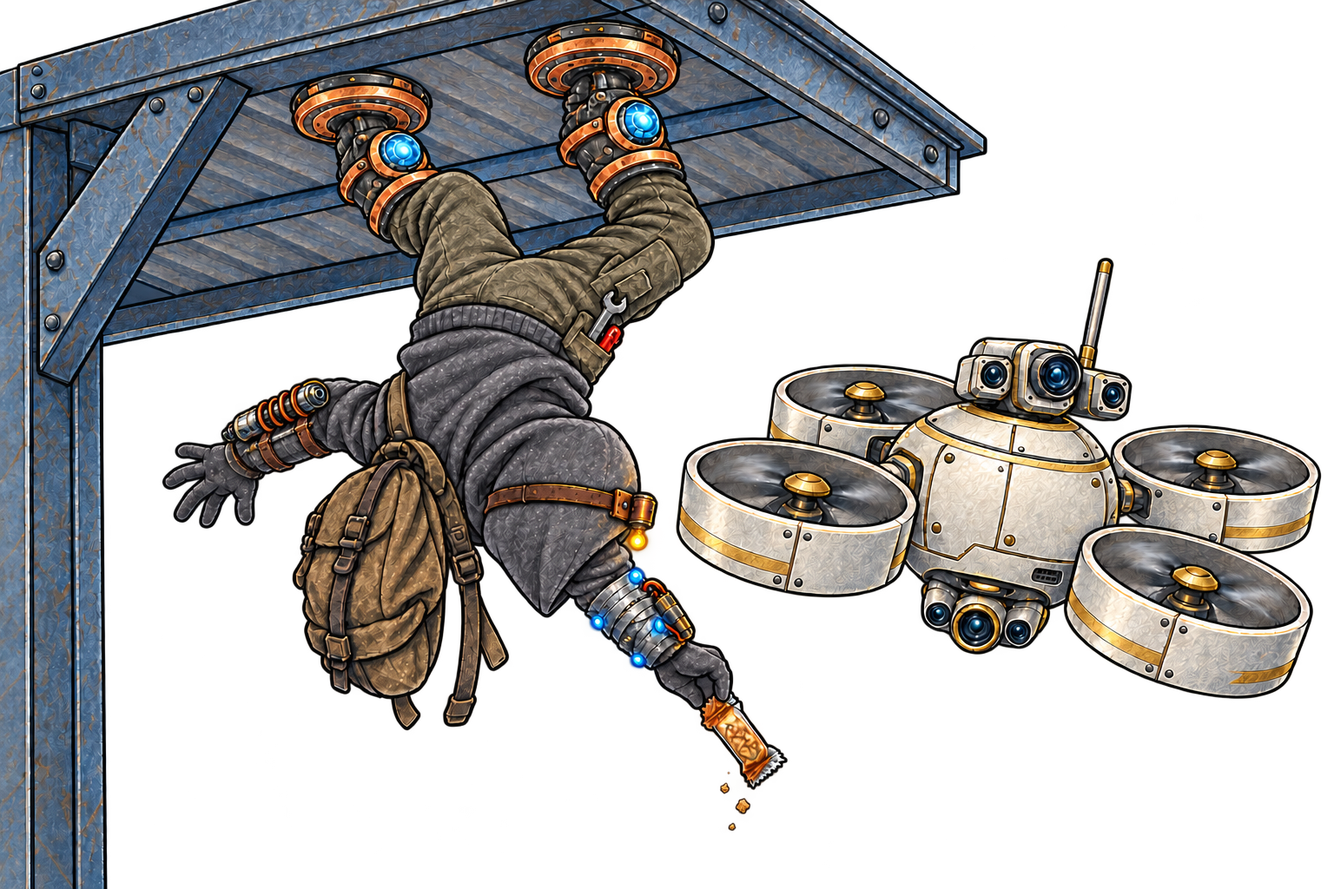
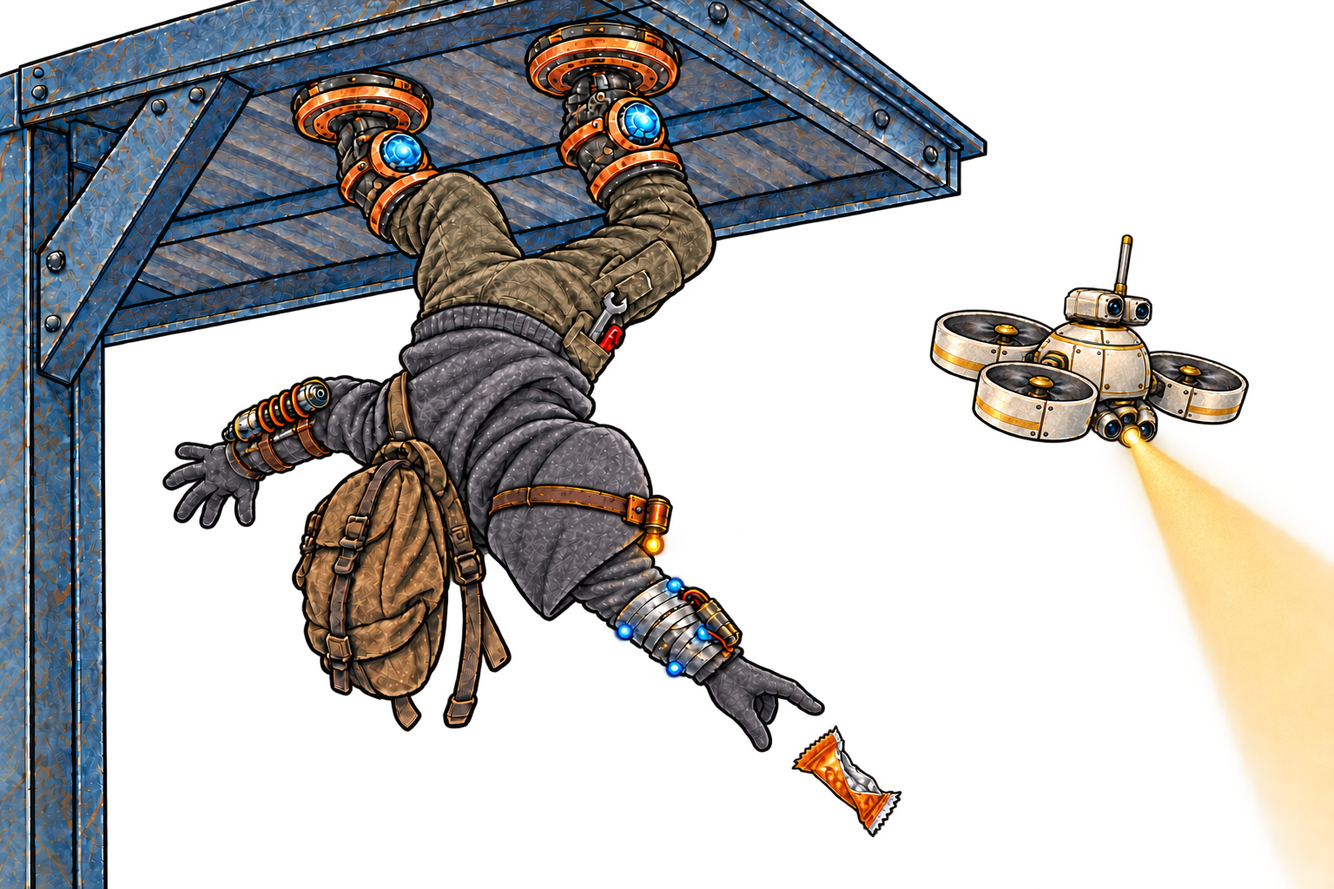
Use approved drone search-beam illustration in story

diff --git a/artwork/tech-hero/2026-09-23/index.html b/artwork/tech-hero/2026-09-23/index.html
@@ -1,5 +1,5 @@
 <!doctype html><html lang="en"><head><meta charset="utf-8"><meta name="viewport" content="width=device-width,initial-scale=1"><title>Tech Hero artwork · Paths of Wonder</title><style>
 *{box-sizing:border-box}html{background:#e5dac4;color:#242a30}body{margin:0;font:17px/1.55 system-ui,-apple-system,sans-serif}header,main,.end{max-width:1480px;margin:auto;padding:32px clamp(16px,4vw,56px)}header{padding-bottom:12px}h1,h2{font-family:Georgia,serif;line-height:1.15;font-weight:500}h1{font-size:clamp(32px,5vw,54px);margin:8px 0 20px}h2{font-size:28px;margin:8px 0}.intro{max-width:830px}.eyebrow,.label span{font-size:13px;letter-spacing:.06em;text-transform:uppercase;color:#635334}a{color:#314e46;text-underline-offset:4px}nav,.controls{display:flex;flex-wrap:wrap;gap:8px;margin:20px 0}nav a,button,footer a{min-height:44px;display:inline-flex;align-items:center;padding:9px 13px;border-radius:8px}nav a,button{border:1px solid #b6a88d;text-decoration:none;background:#f5efdf;font:inherit;color:inherit;cursor:pointer}button[aria-pressed=true]{background:#314e46;color:#fff}a:focus-visible,button:focus-visible{outline:3px solid #96612b;outline-offset:3px}main{display:grid;grid-template-columns:repeat(2,minmax(0,1fr));gap:24px;padding-top:12px}article{background:#f4eddb;border:1px solid #c6b99d;border-radius:10px;overflow:hidden;scroll-margin-top:16px}.label{padding:20px 24px 4px}.label p{font-size:14px;color:#655c48;margin:8px 0}.page{background:#f4eddb;padding:8px 16px}.art{display:block}img{display:block;width:100%;height:auto;max-height:620px;object-fit:contain}.context{display:none;font:20px/1.65 Georgia,serif;padding:8px 18px;white-space:pre-line}.reading .context{display:block}.reading .spot .art{max-width:430px;margin:auto}.large .context{font-size:25px}footer{display:flex;justify-content:space-between;flex-wrap:wrap;padding:8px 12px 14px}.end{color:#635334} @media(max-width:700px){main{grid-template-columns:1fr}.label{padding:18px 18px 4px}.page{padding:8px}.context{padding:8px 14px}img{max-height:none}}@media print{nav,.controls,footer{display:none}main{display:block}article{break-inside:avoid;margin:20px 0}}
-</style></head><body><header id="top"><div class="eyebrow">Paths of Wonder · Tech Hero · Artwork review</div><h1>The Can Opener, illustrated</h1><div class="intro"><p>Seventeen story illustrations and two color tool references. The latest revisions are collected here on warm parchment.</p><p>The hero’s face, skin, and hair stay hidden. The Can Opener’s energy blade is off when carried or used as a tool; the Stompers scene has it lying flat on the workbench.</p><p>These are review drafts. Suggested paragraph placements use your exact current text and do not modify the app or stories.</p></div><div class="controls"><button id="context-toggle" aria-pressed="false">Show story context</button><button id="type-toggle" aria-pressed="false">Larger reading text</button><a href="PLACEMENTS.md">Placement notes</a></div><nav aria-label="Illustrations"><a href="#01-garage-lab">The garage lab</a><a href="#02-old-sandwich">The very old sandwich</a><a href="#03-launcher-mishap">More power. Probably.</a><a href="#04-wheel-pop">THWOOM!</a><a href="#05-shield-cover-me">Shield Cover Me</a><a href="#06-asher-portable">Asher Portable</a><a href="#07-magnet-mishap">Magnet boot testing</a><a href="#08-stompers">The Stompers</a><a href="#09-up-the-wall">Up the wall</a><a href="#10-full-loadout">Full loadout</a><a href="#11-old-cannery">The old cannery</a><a href="#12-under-the-awning">Like a bat</a><a href="#13-max-office">An office fit for Max</a><a href="#14-max-on-stage">Max Grabs takes the stage</a><a href="#15-bot-pileup">Forklifts and rocket feet</a><a href="#16-precision">Precision</a><a href="#17-neighborhood-safe">The good kind of quiet</a><a href="#18-can-opener-active">The Can Opener — active</a><a href="#19-can-opener-tool-mode">The Can Opener — tool mode</a></nav></header><main><article id="01-garage-lab" class="opening"><div class="label"><span>opening</span><h2>The garage lab</h2><p>Scene 001 · Getting Home · after paragraph 7</p></div><div class="page"><div class="context before"><p>The voice comes from your computer: your trusty AI assistant and friend, Asher.</p></div><a class="art" href="01-garage-lab.png" aria-label="Open full-size The garage lab"><img src="01-garage-lab.png" alt="A garage workbench filled with tools, salvaged parts, a backpack, and Asher’s computer." loading="lazy"></a><div class="context after"><p>“Well, Asher, I got some storage drives, scrap metal I can melt down for other uses, a few chips, and the real win here…”</p></div></div><footer><a href="01-garage-lab.png" download>Download PNG</a><a href="#top">Back to top</a></footer></article><article id="02-old-sandwich" class="spot"><div class="label"><span>spot</span><h2>The very old sandwich</h2><p>Scene 008 · The Axe Blade · after paragraph 4</p></div><div class="page"><div class="context before"><p>The bot spins around, confused, and the cabinet door on its belly flaps open. A screwdriver falls out. Then a tape measure. Then a very old sandwich. That’s when you see your opening: a panel on its back, right between the shoulders.</p></div><a class="art" href="02-old-sandwich.png" aria-label="Open full-size The very old sandwich"><img src="02-old-sandwich.png" alt="A moldy sandwich falls from the Construction Bot’s open tool cabinet with a PLOP." loading="lazy"></a><div class="context after"><p>One more swing. The blade cuts the panel wide open, sparks fly, and the bot’s foot thrusters sputter out. It sits down with a big THUNK, like it’s taking a nap.</p></div></div><footer><a href="02-old-sandwich.png" download>Download PNG</a><a href="#top">Back to top</a></footer></article><article id="03-launcher-mishap" class="spot"><div class="label"><span>spot</span><h2>More power. Probably.</h2><p>Scene 021 · More Power · after paragraph 7</p></div><div class="page"><div class="context before"><p>You stand there with an empty wrist brace and your hair sticking straight up.</p></div><a class="art" href="03-launcher-mishap.png" aria-label="Open full-size More power. Probably."><img src="03-launcher-mishap.png" alt="A rock launcher is stuck backward in the wall; a gloved wrist has an empty brace." loading="lazy"></a><div class="context after"><p>“Ok,” you say. “Less power.”</p></div></div><footer><a href="03-launcher-mishap.png" download>Download PNG</a><a href="#top">Back to top</a></footer></article><article id="04-wheel-pop" class="spot"><div class="label"><span>spot</span><h2>THWOOM!</h2><p>Scene 026 · Heavier Than Expected · after paragraph 7</p></div><div class="page"><div class="context before"><p>The rock smashes into the front left wheel, and it pops right off its axle. The Load-Bot tips forward, spins in a slow, sad circle, and crashes onto its face with a BOOM that sets off a car alarm.</p></div><a class="art" href="04-wheel-pop.png" aria-label="Open full-size THWOOM!"><img src="04-wheel-pop.png" alt="The smiling Load-Bot loses a wheel beside the market, with a THWOOM." loading="lazy"></a><div class="context after"><p>It’s down, but it’s not out. Its forklift arms are still flailing, and your coil is empty. But it can’t reach behind itself.</p></div></div><footer><a href="04-wheel-pop.png" download>Download PNG</a><a href="#top">Back to top</a></footer></article><article id="05-shield-cover-me" class="feature"><div class="label"><span>feature</span><h2>Shield Cover Me</h2><p>Scene 033 · Shield Cover Me · after paragraph 3</p></div><div class="page"><div class="context before"><p>The stick skids off the light in a shower of sparks. The shield flickers, but it holds! The bot hits it again, and again, and you push forward behind the shield one step at a time. But you can’t get around it, and you can’t exactly fight with a shield and a thumb.</p></div><a class="art" href="05-shield-cover-me.png?v=4" aria-label="Open full-size Shield Cover Me"><img src="05-shield-cover-me.png?v=4" alt="A duct-taped armband on the hero’s left forearm, with glowing blue dots and a wired side power pack, projects an energy shield against a Security Bot’s sparking baton." loading="lazy"></a><div class="context after"><p>“ASHER! SHIELD! COVER ME!”</p></div></div><footer><a href="05-shield-cover-me.png?v=4" download>Download PNG</a><a href="#top">Back to top</a></footer></article><article id="06-asher-portable" class="opening"><div class="label"><span>opening</span><h2>Asher Portable</h2><p>Scene 041 · Miniaturizing Asher · after paragraph 6</p></div><div class="page"><div class="context before"><p>“Welcome to the team, Asher Portable.”</p></div><a class="art" href="06-asher-portable.png" aria-label="Open full-size Asher Portable"><img src="06-asher-portable.png" alt="Asher Portable: goggles with a clip-on display, camera, earbud, and yellow-bulb signal booster." loading="lazy"></a><div class="context after"><p>“That is simply a description of what I am, sir.”</p></div></div><footer><a href="06-asher-portable.png" download>Download PNG</a><a href="#top">Back to top</a></footer></article><article id="07-magnet-mishap" class="spot"><div class="label"><span>spot</span><h2>Magnet boot testing</h2><p>Scene 044 · Magnet Boot Testing · after paragraph 9</p></div><div class="page"><div class="context before"><p>A wrench slides across the workbench and sticks to your left ankle. Then a screwdriver. Then a whole handful of bolts.</p></div><a class="art" href="07-magnet-mishap.png" aria-label="Open full-size Magnet boot testing"><img src="07-magnet-mishap.png" alt="Magnet boots stick to the refrigerator and floor plate, with tools clinging to one ankle." loading="lazy"></a><div class="context after"><p>“You are collecting tools at an impressive rate, sir.”</p></div></div><footer><a href="07-magnet-mishap.png" download>Download PNG</a><a href="#top">Back to top</a></footer></article><article id="08-stompers" class="feature"><div class="label"><span>feature</span><h2>The Stompers</h2><p>Scene 045 · The Stompers · after paragraph 9</p></div><div class="page"><div class="context before"><p>“The Stompers.”</p></div><a class="art" href="08-stompers.png?v=5" aria-label="Open full-size The Stompers"><img src="08-stompers.png?v=5" alt="The fully covered hero wears goggles and a left-arm shield band and right-arm Wrist Wrock-It while bouncing toward the workbench; the inactive Can Opener lies flat on the wood." loading="lazy"></a><div class="context after"><p>A pause.</p></div></div><footer><a href="08-stompers.png?v=5" download>Download PNG</a><a href="#top">Back to top</a></footer></article><article id="09-up-the-wall" class="spot"><div class="label"><span>spot</span><h2>Up the wall</h2><p>Scene 047 · Up the Wall · after paragraph 7</p></div><div class="page"><div class="context before"><p>Clunk. Clunk. Clunk. You walk up the wall one heavy step at a time, staying in the corner where the bot can’t lean out far enough to aim at you. It knows you’re out there somewhere, so it keeps zapping the mailbox just in case.</p></div><a class="art" href="09-up-the-wall.png?v=5" aria-label="Open full-size Up the wall"><img src="09-up-the-wall.png?v=5" alt="The hooded hero climbs a steel wall in magnetic boots, wearing goggles and a left-arm shield band and right-arm Wrist Wrock-It, with the inactive wrench on their belt." loading="lazy"></a><div class="context after"><p>You reach the top and peek over the edge. The bot has its back to you, skate wheels locked, leaning out over the front of the roof.</p></div></div><footer><a href="09-up-the-wall.png?v=5" download>Download PNG</a><a href="#top">Back to top</a></footer></article><article id="10-full-loadout" class="feature"><div class="label"><span>feature</span><h2>Full loadout</h2><p>Scene 049 · Full Loadout · after paragraph 7</p></div><div class="page"><div class="context before"><p>You look out over {world_name} from the roof. The Can Opener, The Wrist Wrock-It, Shield Cover Me, Asher Portable, The Stompers…every single one of them got you up here.</p></div><a class="art" href="10-full-loadout.png?v=2" aria-label="Open full-size Full loadout"><img src="10-full-loadout.png?v=2" alt="The fully covered hero rests on a rooftop with a duct-taped shield armband, other inventions, and a blue-eyed Security Bot." loading="lazy"></a><div class="context after"><p>The bot’s visor goes dark.</p></div></div><footer><a href="10-full-loadout.png?v=2" download>Download PNG</a><a href="#top">Back to top</a></footer></article><article id="11-old-cannery" class="feature"><div class="label"><span>feature</span><h2>The old cannery</h2><p>Scene 053 · A Destination · after paragraph 6</p></div><div class="page"><div class="context before"><p>GRABS AWESOME STRUCTURES. MAKING YOUR NEIGHBORHOOD MINE! The word “MINE” has been crossed out by hand, and “BETTER” is written above it. Under that, in gold letters two feet tall: GAS. WE BLOW YOU AWAY!</p></div><a class="art" href="11-old-cannery.png" aria-label="Open full-size The old cannery"><img src="11-old-cannery.png" alt="The fenced cannery has a rooftop antenna, trucks of broken robots, and gold GAS signs." loading="lazy"></a><div class="context after"><p>You stare at it for a long moment.</p></div></div><footer><a href="11-old-cannery.png" download>Download PNG</a><a href="#top">Back to top</a></footer></article><article id="12-under-the-awning" class="spot"><div class="label"><span>spot</span><h2>Like a bat</h2><p>Scene 054 · Drone Spotted · after paragraph 11</p></div><div class="page"><div class="context before"><p>You catch it with two fingers. Way, WAY too close.</p></div><a class="art" href="12-under-the-awning.png?v=5" aria-label="Open full-size Like a bat"><img src="12-under-the-awning.png?v=5" alt="The hooded hero hangs by magnetic boots beneath an awning, wearing goggles and a left-arm shield band and right-arm Wrist Wrock-It, as a surveillance drone passes." loading="lazy"></a><div class="context after"><p>So it isn’t just a signal. Somebody is watching the whole neighborhood…and now you know his name.</p></div></div><footer><a href="12-under-the-awning.png?v=5" download>Download PNG</a><a href="#top">Back to top</a></footer></article><article id="13-max-office" class="feature"><div class="label"><span>feature</span><h2>An office fit for Max</h2><p>Scene 056 · The Side Window · after paragraph 6</p></div><div class="page"><div class="context before"><p>“Sir, there is a computer on that desk, and it is unlocked. There is a sticky note on the screen. It says ‘Password: password.’”</p></div><a class="art" href="13-max-office.png" aria-label="Open full-size An office fit for Max"><img src="13-max-office.png" alt="Max’s oversized office has a painting of him shaking hands with himself and a password note." loading="lazy"></a><div class="context after"><p>“He didn’t even need it. He left himself logged in.”</p></div></div><footer><a href="13-max-office.png" download>Download PNG</a><a href="#top">Back to top</a></footer></article><article id="14-max-on-stage" class="feature"><div class="label"><span>feature</span><h2>Max Grabs takes the stage</h2><p>Scene 058 · The Man in the Shiny Suit · after paragraph 21</p></div><div class="page"><div class="context before"><p>Standing behind the stage, still as statues, are two Security Bots with steady red eyes. One of them is giving the crowd a thumbs-up.</p></div><a class="art" href="14-max-on-stage.png" aria-label="Open full-size Max Grabs takes the stage"><img src="14-max-on-stage.png" alt="Max Grabs grins on a stage with gold balloons, flying note cards, and Security Bots." loading="lazy"></a><div class="context after"><p>“That is him, sir,” Asher says in your ear.</p></div></div><footer><a href="14-max-on-stage.png" download>Download PNG</a><a href="#top">Back to top</a></footer></article><article id="15-bot-pileup" class="spot"><div class="label"><span>spot</span><h2>Forklifts and rocket feet</h2><p>Scene 060 · The Front Gate · after paragraph 7</p></div><div class="page"><div class="context before"><p>You pop one panel. You pop the other. Pull. Pull. Both sets of eyes fade to soft blue.</p></div><a class="art" href="15-bot-pileup.png" aria-label="Open full-size Forklifts and rocket feet"><img src="15-bot-pileup.png" alt="A Load-Bot and Construction Bot are tangled in a heap, their eyes now blue." loading="lazy"></a><div class="context after"><p>“Sorry, guys,” you say, and you mean it. “I’ll be back for you.”</p></div></div><footer><a href="15-bot-pileup.png" download>Download PNG</a><a href="#top">Back to top</a></footer></article><article id="16-precision" class="feature"><div class="label"><span>feature</span><h2>Precision</h2><p>Scene 066 · Precision · after paragraph 3</p></div><div class="page"><div class="context before"><p>Every terminal goes dark at once. The Robot Improver 3 makes a sound like a very large balloon letting go, and its lights go out row by row. On the roof, the antenna stops humming.</p></div><a class="art" href="16-precision.png?v=5" aria-label="Open full-size Precision"><img src="16-precision.png?v=5" alt="A precise blue-white discharge passes Max and strikes the cannery’s control terminals." loading="lazy"></a><div class="context after"><p>And all across {world_name}, in alleys and empty lots and the middle of Elm Street, every haywire robot slows down, lowers its arms, and stops. Hundreds of flickering red lights fade to a soft, calm blue.</p></div></div><footer><a href="16-precision.png?v=5" download>Download PNG</a><a href="#top">Back to top</a></footer></article><article id="17-neighborhood-safe" class="feature"><div class="label"><span>feature</span><h2>The good kind of quiet</h2><p>Scene 068 · Neighborhood Safe · after paragraph 5</p></div><div class="page"><div class="context before"><p>You nod back, and you keep walking.</p></div><a class="art" href="17-neighborhood-safe.png?v=5" aria-label="Open full-size The good kind of quiet"><img src="17-neighborhood-safe.png?v=5" alt="A child pats a peaceful robot and Mrs. Ruiz salutes as the hooded hero walks home wearing goggles and a left-arm shield band and right-arm Wrist Wrock-It." loading="lazy"></a><div class="context after"><p>You pass the top of Main Street. Mr. Lin’s bench is still gone. There are four bolts in the sidewalk where it used to be, and nothing else.</p></div></div><footer><a href="17-neighborhood-safe.png?v=5" download>Download PNG</a><a href="#top">Back to top</a></footer></article><article id="18-can-opener-active" class="reference"><div class="label"><span>reference</span><h2>The Can Opener — active</h2><p>Scene 005 · Building The Can Opener · after paragraph 11</p></div><div class="page"><div class="context before"><p>The wrench head shifts with a sharp mechanical click, and a crackling energy blade snaps out along the side of the head like an axe made of lightning.</p></div><a class="art" href="18-can-opener-active.png" aria-label="Open full-size The Can Opener — active"><img src="18-can-opener-active.png" alt="The Can Opener in active mode: steel wrench, copper coils, a blue power core, and an energy axe blade." loading="lazy"></a><div class="context after"><p>You stare at it.</p></div></div><footer><a href="18-can-opener-active.png" download>Download PNG</a><a href="#top">Back to top</a></footer></article><article id="19-can-opener-tool-mode" class="reference"><div class="label"><span>reference</span><h2>The Can Opener — tool mode</h2><p>Continuity reference · powered-down tool</p></div><div class="page"><a class="art" href="19-can-opener-tool-mode.png" aria-label="Open full-size The Can Opener — tool mode"><img src="19-can-opener-tool-mode.png" alt="The Can Opener in tool mode: steel jaws, copper coils, a dark core, and no deployed blade." loading="lazy"></a></div><footer><a href="19-can-opener-tool-mode.png" download>Download PNG</a><a href="#top">Back to top</a></footer></article></main><div class="end">Tap an image for its full-size PNG. <a href="README.md">Production notes</a> · <a href="prompts.json">Prompt set</a></div><script>
+</style></head><body><header id="top"><div class="eyebrow">Paths of Wonder · Tech Hero · Artwork review</div><h1>The Can Opener, illustrated</h1><div class="intro"><p>Seventeen story illustrations and two color tool references. The latest revisions are collected here on warm parchment.</p><p>The hero’s face, skin, and hair stay hidden. The Can Opener’s energy blade is off when carried or used as a tool; the Stompers scene has it lying flat on the workbench.</p><p>These are review drafts. Suggested paragraph placements use your exact current text and do not modify the app or stories.</p></div><div class="controls"><button id="context-toggle" aria-pressed="false">Show story context</button><button id="type-toggle" aria-pressed="false">Larger reading text</button><a href="PLACEMENTS.md">Placement notes</a></div><nav aria-label="Illustrations"><a href="#01-garage-lab">The garage lab</a><a href="#02-old-sandwich">The very old sandwich</a><a href="#03-launcher-mishap">More power. Probably.</a><a href="#04-wheel-pop">THWOOM!</a><a href="#05-shield-cover-me">Shield Cover Me</a><a href="#06-asher-portable">Asher Portable</a><a href="#07-magnet-mishap">Magnet boot testing</a><a href="#08-stompers">The Stompers</a><a href="#09-up-the-wall">Up the wall</a><a href="#10-full-loadout">Full loadout</a><a href="#11-old-cannery">The old cannery</a><a href="#12-under-the-awning">Like a bat</a><a href="#13-max-office">An office fit for Max</a><a href="#14-max-on-stage">Max Grabs takes the stage</a><a href="#15-bot-pileup">Forklifts and rocket feet</a><a href="#16-precision">Precision</a><a href="#17-neighborhood-safe">The good kind of quiet</a><a href="#18-can-opener-active">The Can Opener — active</a><a href="#19-can-opener-tool-mode">The Can Opener — tool mode</a></nav></header><main><article id="01-garage-lab" class="opening"><div class="label"><span>opening</span><h2>The garage lab</h2><p>Scene 001 · Getting Home · after paragraph 7</p></div><div class="page"><div class="context before"><p>The voice comes from your computer: your trusty AI assistant and friend, Asher.</p></div><a class="art" href="01-garage-lab.png" aria-label="Open full-size The garage lab"><img src="01-garage-lab.png" alt="A garage workbench filled with tools, salvaged parts, a backpack, and Asher’s computer." loading="lazy"></a><div class="context after"><p>“Well, Asher, I got some storage drives, scrap metal I can melt down for other uses, a few chips, and the real win here…”</p></div></div><footer><a href="01-garage-lab.png" download>Download PNG</a><a href="#top">Back to top</a></footer></article><article id="02-old-sandwich" class="spot"><div class="label"><span>spot</span><h2>The very old sandwich</h2><p>Scene 008 · The Axe Blade · after paragraph 4</p></div><div class="page"><div class="context before"><p>The bot spins around, confused, and the cabinet door on its belly flaps open. A screwdriver falls out. Then a tape measure. Then a very old sandwich. That’s when you see your opening: a panel on its back, right between the shoulders.</p></div><a class="art" href="02-old-sandwich.png" aria-label="Open full-size The very old sandwich"><img src="02-old-sandwich.png" alt="A moldy sandwich falls from the Construction Bot’s open tool cabinet with a PLOP." loading="lazy"></a><div class="context after"><p>One more swing. The blade cuts the panel wide open, sparks fly, and the bot’s foot thrusters sputter out. It sits down with a big THUNK, like it’s taking a nap.</p></div></div><footer><a href="02-old-sandwich.png" download>Download PNG</a><a href="#top">Back to top</a></footer></article><article id="03-launcher-mishap" class="spot"><div class="label"><span>spot</span><h2>More power. Probably.</h2><p>Scene 021 · More Power · after paragraph 7</p></div><div class="page"><div class="context before"><p>You stand there with an empty wrist brace and your hair sticking straight up.</p></div><a class="art" href="03-launcher-mishap.png" aria-label="Open full-size More power. Probably."><img src="03-launcher-mishap.png" alt="A rock launcher is stuck backward in the wall; a gloved wrist has an empty brace." loading="lazy"></a><div class="context after"><p>“Ok,” you say. “Less power.”</p></div></div><footer><a href="03-launcher-mishap.png" download>Download PNG</a><a href="#top">Back to top</a></footer></article><article id="04-wheel-pop" class="spot"><div class="label"><span>spot</span><h2>THWOOM!</h2><p>Scene 026 · Heavier Than Expected · after paragraph 7</p></div><div class="page"><div class="context before"><p>The rock smashes into the front left wheel, and it pops right off its axle. The Load-Bot tips forward, spins in a slow, sad circle, and crashes onto its face with a BOOM that sets off a car alarm.</p></div><a class="art" href="04-wheel-pop.png" aria-label="Open full-size THWOOM!"><img src="04-wheel-pop.png" alt="The smiling Load-Bot loses a wheel beside the market, with a THWOOM." loading="lazy"></a><div class="context after"><p>It’s down, but it’s not out. Its forklift arms are still flailing, and your coil is empty. But it can’t reach behind itself.</p></div></div><footer><a href="04-wheel-pop.png" download>Download PNG</a><a href="#top">Back to top</a></footer></article><article id="05-shield-cover-me" class="feature"><div class="label"><span>feature</span><h2>Shield Cover Me</h2><p>Scene 033 · Shield Cover Me · after paragraph 3</p></div><div class="page"><div class="context before"><p>The stick skids off the light in a shower of sparks. The shield flickers, but it holds! The bot hits it again, and again, and you push forward behind the shield one step at a time. But you can’t get around it, and you can’t exactly fight with a shield and a thumb.</p></div><a class="art" href="05-shield-cover-me.png?v=4" aria-label="Open full-size Shield Cover Me"><img src="05-shield-cover-me.png?v=4" alt="A duct-taped armband on the hero’s left forearm, with glowing blue dots and a wired side power pack, projects an energy shield against a Security Bot’s sparking baton." loading="lazy"></a><div class="context after"><p>“ASHER! SHIELD! COVER ME!”</p></div></div><footer><a href="05-shield-cover-me.png?v=4" download>Download PNG</a><a href="#top">Back to top</a></footer></article><article id="06-asher-portable" class="opening"><div class="label"><span>opening</span><h2>Asher Portable</h2><p>Scene 041 · Miniaturizing Asher · after paragraph 6</p></div><div class="page"><div class="context before"><p>“Welcome to the team, Asher Portable.”</p></div><a class="art" href="06-asher-portable.png" aria-label="Open full-size Asher Portable"><img src="06-asher-portable.png" alt="Asher Portable: goggles with a clip-on display, camera, earbud, and yellow-bulb signal booster." loading="lazy"></a><div class="context after"><p>“That is simply a description of what I am, sir.”</p></div></div><footer><a href="06-asher-portable.png" download>Download PNG</a><a href="#top">Back to top</a></footer></article><article id="07-magnet-mishap" class="spot"><div class="label"><span>spot</span><h2>Magnet boot testing</h2><p>Scene 044 · Magnet Boot Testing · after paragraph 9</p></div><div class="page"><div class="context before"><p>A wrench slides across the workbench and sticks to your left ankle. Then a screwdriver. Then a whole handful of bolts.</p></div><a class="art" href="07-magnet-mishap.png" aria-label="Open full-size Magnet boot testing"><img src="07-magnet-mishap.png" alt="Magnet boots stick to the refrigerator and floor plate, with tools clinging to one ankle." loading="lazy"></a><div class="context after"><p>“You are collecting tools at an impressive rate, sir.”</p></div></div><footer><a href="07-magnet-mishap.png" download>Download PNG</a><a href="#top">Back to top</a></footer></article><article id="08-stompers" class="feature"><div class="label"><span>feature</span><h2>The Stompers</h2><p>Scene 045 · The Stompers · after paragraph 9</p></div><div class="page"><div class="context before"><p>“The Stompers.”</p></div><a class="art" href="08-stompers.png?v=5" aria-label="Open full-size The Stompers"><img src="08-stompers.png?v=5" alt="The fully covered hero wears goggles and a left-arm shield band and right-arm Wrist Wrock-It while bouncing toward the workbench; the inactive Can Opener lies flat on the wood." loading="lazy"></a><div class="context after"><p>A pause.</p></div></div><footer><a href="08-stompers.png?v=5" download>Download PNG</a><a href="#top">Back to top</a></footer></article><article id="09-up-the-wall" class="spot"><div class="label"><span>spot</span><h2>Up the wall</h2><p>Scene 047 · Up the Wall · after paragraph 7</p></div><div class="page"><div class="context before"><p>Clunk. Clunk. Clunk. You walk up the wall one heavy step at a time, staying in the corner where the bot can’t lean out far enough to aim at you. It knows you’re out there somewhere, so it keeps zapping the mailbox just in case.</p></div><a class="art" href="09-up-the-wall.png?v=5" aria-label="Open full-size Up the wall"><img src="09-up-the-wall.png?v=5" alt="The hooded hero climbs a steel wall in magnetic boots, wearing goggles and a left-arm shield band and right-arm Wrist Wrock-It, with the inactive wrench on their belt." loading="lazy"></a><div class="context after"><p>You reach the top and peek over the edge. The bot has its back to you, skate wheels locked, leaning out over the front of the roof.</p></div></div><footer><a href="09-up-the-wall.png?v=5" download>Download PNG</a><a href="#top">Back to top</a></footer></article><article id="10-full-loadout" class="feature"><div class="label"><span>feature</span><h2>Full loadout</h2><p>Scene 049 · Full Loadout · after paragraph 7</p></div><div class="page"><div class="context before"><p>You look out over {world_name} from the roof. The Can Opener, The Wrist Wrock-It, Shield Cover Me, Asher Portable, The Stompers…every single one of them got you up here.</p></div><a class="art" href="10-full-loadout.png?v=2" aria-label="Open full-size Full loadout"><img src="10-full-loadout.png?v=2" alt="The fully covered hero rests on a rooftop with a duct-taped shield armband, other inventions, and a blue-eyed Security Bot." loading="lazy"></a><div class="context after"><p>The bot’s visor goes dark.</p></div></div><footer><a href="10-full-loadout.png?v=2" download>Download PNG</a><a href="#top">Back to top</a></footer></article><article id="11-old-cannery" class="feature"><div class="label"><span>feature</span><h2>The old cannery</h2><p>Scene 053 · A Destination · after paragraph 6</p></div><div class="page"><div class="context before"><p>GRABS AWESOME STRUCTURES. MAKING YOUR NEIGHBORHOOD MINE! The word “MINE” has been crossed out by hand, and “BETTER” is written above it. Under that, in gold letters two feet tall: GAS. WE BLOW YOU AWAY!</p></div><a class="art" href="11-old-cannery.png" aria-label="Open full-size The old cannery"><img src="11-old-cannery.png" alt="The fenced cannery has a rooftop antenna, trucks of broken robots, and gold GAS signs." loading="lazy"></a><div class="context after"><p>You stare at it for a long moment.</p></div></div><footer><a href="11-old-cannery.png" download>Download PNG</a><a href="#top">Back to top</a></footer></article><article id="12-under-the-awning" class="spot"><div class="label"><span>spot</span><h2>Like a bat</h2><p>Scene 054 · Drone Spotted · after paragraph 11</p></div><div class="page"><div class="context before"><p>You catch it with two fingers. Way, WAY too close.</p></div><a class="art" href="12-under-the-awning.png?v=6" aria-label="Open full-size Like a bat"><img src="12-under-the-awning.png?v=6" alt="The hooded hero reaches for a falling wrapper beneath an awning, outside a distant drone’s amber search beam, wearing the left-arm shield and right-arm Wrist Wrock-It." loading="lazy"></a><div class="context after"><p>So it isn’t just a signal. Somebody is watching the whole neighborhood…and now you know his name.</p></div></div><footer><a href="12-under-the-awning.png?v=6" download>Download PNG</a><a href="#top">Back to top</a></footer></article><article id="13-max-office" class="feature"><div class="label"><span>feature</span><h2>An office fit for Max</h2><p>Scene 056 · The Side Window · after paragraph 6</p></div><div class="page"><div class="context before"><p>“Sir, there is a computer on that desk, and it is unlocked. There is a sticky note on the screen. It says ‘Password: password.’”</p></div><a class="art" href="13-max-office.png" aria-label="Open full-size An office fit for Max"><img src="13-max-office.png" alt="Max’s oversized office has a painting of him shaking hands with himself and a password note." loading="lazy"></a><div class="context after"><p>“He didn’t even need it. He left himself logged in.”</p></div></div><footer><a href="13-max-office.png" download>Download PNG</a><a href="#top">Back to top</a></footer></article><article id="14-max-on-stage" class="feature"><div class="label"><span>feature</span><h2>Max Grabs takes the stage</h2><p>Scene 058 · The Man in the Shiny Suit · after paragraph 21</p></div><div class="page"><div class="context before"><p>Standing behind the stage, still as statues, are two Security Bots with steady red eyes. One of them is giving the crowd a thumbs-up.</p></div><a class="art" href="14-max-on-stage.png" aria-label="Open full-size Max Grabs takes the stage"><img src="14-max-on-stage.png" alt="Max Grabs grins on a stage with gold balloons, flying note cards, and Security Bots." loading="lazy"></a><div class="context after"><p>“That is him, sir,” Asher says in your ear.</p></div></div><footer><a href="14-max-on-stage.png" download>Download PNG</a><a href="#top">Back to top</a></footer></article><article id="15-bot-pileup" class="spot"><div class="label"><span>spot</span><h2>Forklifts and rocket feet</h2><p>Scene 060 · The Front Gate · after paragraph 7</p></div><div class="page"><div class="context before"><p>You pop one panel. You pop the other. Pull. Pull. Both sets of eyes fade to soft blue.</p></div><a class="art" href="15-bot-pileup.png" aria-label="Open full-size Forklifts and rocket feet"><img src="15-bot-pileup.png" alt="A Load-Bot and Construction Bot are tangled in a heap, their eyes now blue." loading="lazy"></a><div class="context after"><p>“Sorry, guys,” you say, and you mean it. “I’ll be back for you.”</p></div></div><footer><a href="15-bot-pileup.png" download>Download PNG</a><a href="#top">Back to top</a></footer></article><article id="16-precision" class="feature"><div class="label"><span>feature</span><h2>Precision</h2><p>Scene 066 · Precision · after paragraph 3</p></div><div class="page"><div class="context before"><p>Every terminal goes dark at once. The Robot Improver 3 makes a sound like a very large balloon letting go, and its lights go out row by row. On the roof, the antenna stops humming.</p></div><a class="art" href="16-precision.png?v=5" aria-label="Open full-size Precision"><img src="16-precision.png?v=5" alt="A precise blue-white discharge passes Max and strikes the cannery’s control terminals." loading="lazy"></a><div class="context after"><p>And all across {world_name}, in alleys and empty lots and the middle of Elm Street, every haywire robot slows down, lowers its arms, and stops. Hundreds of flickering red lights fade to a soft, calm blue.</p></div></div><footer><a href="16-precision.png?v=5" download>Download PNG</a><a href="#top">Back to top</a></footer></article><article id="17-neighborhood-safe" class="feature"><div class="label"><span>feature</span><h2>The good kind of quiet</h2><p>Scene 068 · Neighborhood Safe · after paragraph 5</p></div><div class="page"><div class="context before"><p>You nod back, and you keep walking.</p></div><a class="art" href="17-neighborhood-safe.png?v=5" aria-label="Open full-size The good kind of quiet"><img src="17-neighborhood-safe.png?v=5" alt="A child pats a peaceful robot and Mrs. Ruiz salutes as the hooded hero walks home wearing goggles and a left-arm shield band and right-arm Wrist Wrock-It." loading="lazy"></a><div class="context after"><p>You pass the top of Main Street. Mr. Lin’s bench is still gone. There are four bolts in the sidewalk where it used to be, and nothing else.</p></div></div><footer><a href="17-neighborhood-safe.png?v=5" download>Download PNG</a><a href="#top">Back to top</a></footer></article><article id="18-can-opener-active" class="reference"><div class="label"><span>reference</span><h2>The Can Opener — active</h2><p>Scene 005 · Building The Can Opener · after paragraph 11</p></div><div class="page"><div class="context before"><p>The wrench head shifts with a sharp mechanical click, and a crackling energy blade snaps out along the side of the head like an axe made of lightning.</p></div><a class="art" href="18-can-opener-active.png" aria-label="Open full-size The Can Opener — active"><img src="18-can-opener-active.png" alt="The Can Opener in active mode: steel wrench, copper coils, a blue power core, and an energy axe blade." loading="lazy"></a><div class="context after"><p>You stare at it.</p></div></div><footer><a href="18-can-opener-active.png" download>Download PNG</a><a href="#top">Back to top</a></footer></article><article id="19-can-opener-tool-mode" class="reference"><div class="label"><span>reference</span><h2>The Can Opener — tool mode</h2><p>Continuity reference · powered-down tool</p></div><div class="page"><a class="art" href="19-can-opener-tool-mode.png" aria-label="Open full-size The Can Opener — tool mode"><img src="19-can-opener-tool-mode.png" alt="The Can Opener in tool mode: steel jaws, copper coils, a dark core, and no deployed blade." loading="lazy"></a></div><footer><a href="19-can-opener-tool-mode.png" download>Download PNG</a><a href="#top">Back to top</a></footer></article></main><div class="end">Tap an image for its full-size PNG. <a href="README.md">Production notes</a> · <a href="prompts.json">Prompt set</a></div><script>
 for(const [id,cls] of [['context-toggle','reading'],['type-toggle','large']])document.getElementById(id).addEventListener('click',e=>{const enabled=document.body.classList.toggle(cls);e.currentTarget.setAttribute('aria-pressed',String(enabled));});
 </script></body></html>

diff --git a/artwork/tech-hero/2026-09-25/README.md b/artwork/tech-hero/2026-09-25/README.md
@@ -6,8 +6,10 @@ Jeff requested a clearer reaching gesture toward a floating wrapper and more bel
 
 The file is 1536×1024 RGBA with real transparent background pixels. The complete prompt is recorded in `drone-revision-prompt.json`. Generated source: `/Users/jeff/.codex/generated_images/01a0ab4b-6bec-71d3-8dc3-be1b501c1db8/exec-4350a634-b5fd-429d-b28e-8ad824da9b3c.png`.
 
-The current app asset, source illustration, story prose, and Google Doc have not been changed. Review this draft before promoting it to the app.
+This no-beam draft is retained for comparison. The search-beam variant below was subsequently approved and promoted to the app; story prose and the Google Doc are unchanged.
 
 ## Search beam variant
 
-`12-under-the-awning-search-beam.png` adds the requested pale amber searchlight directed down and right, away from the reaching hero and empty wrapper. The drone sits higher in the right-hand background to leave space for the cone. The hero, wrapper reach, equipment and awning remain intact. This is a 1536×1024 RGBA review draft; the current app illustration is still unchanged. Full built-in image-generation prompt and output provenance are in `search-beam-prompt.json`.
+`12-under-the-awning-search-beam.png` adds the requested pale amber searchlight directed down and right, away from the reaching hero and empty wrapper. The drone sits higher in the right-hand background to leave space for the cone. The hero, wrapper reach, equipment and awning remain intact. Jeff approved this 1536×1024 RGBA version; it is now the canonical September 23 source PNG and the app’s scene 054 WebP. The illustration keeps its existing passage anchor. Accessibility text and the artwork gallery were updated. Full built-in image-generation prompt and output provenance are in `search-beam-prompt.json`.
+
+Promotion verification: three artwork tests and production build passed. WebKit verified scene 054 image loading, viewer zoom, and rotation at 667×375, 568×320 (large text), 1024×768, and 390×844. Phone and tablet parchment screenshots were visually inspected. All 49 tracked authored story/draft/Python files were byte-for-byte unchanged. No device installation was performed.
